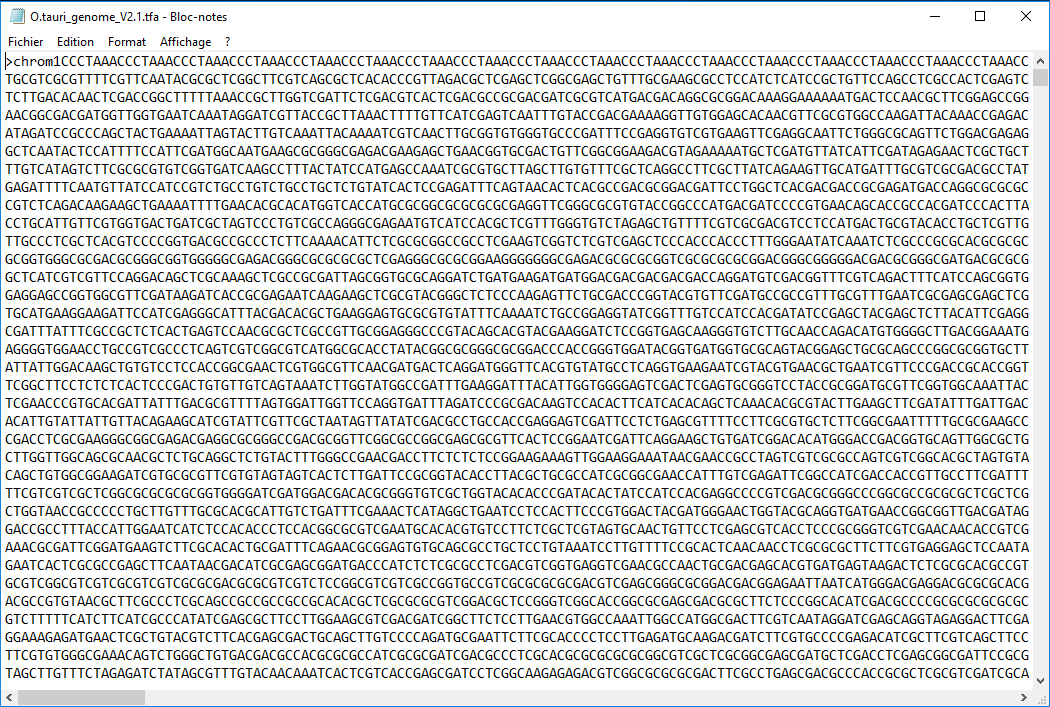
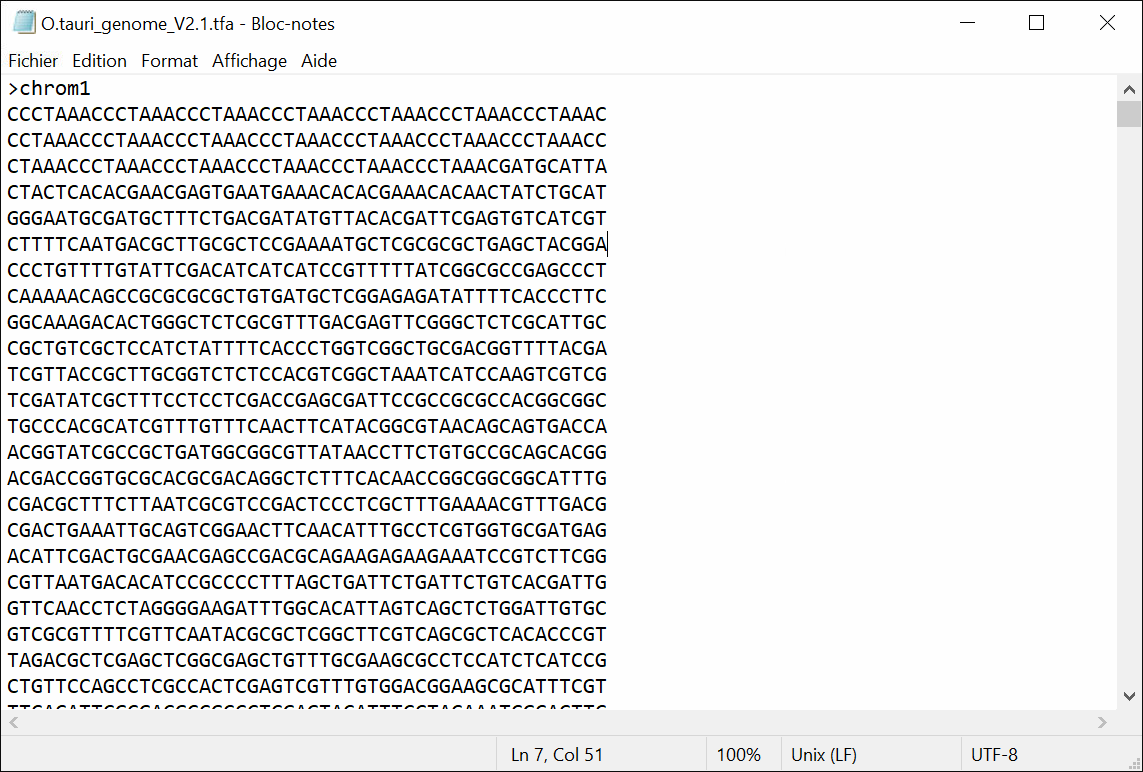
Add genome visualization with bloc-notes

diff --git a/tutoriel/README.md b/tutoriel/README.md
@@ -19,23 +19,6 @@
     - Puis glisser-déposez le fichier sur l'application.
     - Que lisez-vous ?
 
-<details>
-<summary>**Aide**</summary>
-
-
-**aide** le voilà
-
-![](img/tauri_V2.png)
-
-```
-commande 1
-commande 2
-```
-
-
-</details>
-
-
 
 > **Réponses :**
 > > *O. tauri* contient 20 chromosomes. Vous pouvez le vérifiez sur ce [schéma](https://bioinformatics.psb.ugent.be/orcae/overview/OsttaV2)
@@ -53,14 +36,13 @@ commande 2
 
 ### Préparation
 
-1. Installez le logiciel *7-zip* sur votre machine. Vous trouverez une notice détaillée [ici](https://omics-school.github.io/formats-echanges-donnees/install-7zip/).
 1. Installez le logiciel *Notepad++* sur votre machine. Vous trouverez une notice détaillée [ici](https://omics-school.github.io/formats-echanges-donnees/install-notepadpp/).
-
+1. Vérifiez que le logiciel *7-zip* est bien installé). Si ce n'est pas le cas, installez-le sur votre machine. Vous trouverez une notice détaillée [ici](https://omics-school.github.io/formats-echanges-donnees/install-7zip/).
 
 ### Visualisation du génome avec *Bloc-notes*
 
 1. Décompressez le fichier *O.tauri_genome_V2.1.tfa.gz*.  
-    Cliquez droit sur le fichier puis sélectionnez *7-zip -> Extraire Ici*
+    Pour cela cliquez droit sur le fichier puis sélectionnez *7-zip -> Extraire Ici*
 1. Ouvrez le fichier *O.tauri_genome_V2.1.tfa* avec *Bloc-notes*.  
     Remarque : lancez d'abord *Bloc-notes* puis glisser-déposez le fichier sur l'application.
 1. Recherchez les chromosomes de *O. tauri* en pressant les touches <kbd>Ctrl</kbd>+<kbd>F</kbd> puis en entrant le motif `>chrom` puis en cliquant sur le bouton *Suivant* ([aide](img/bloc-notes_recherche.png)).  
@@ -71,12 +53,12 @@ commande 2
 > **Réponses :**
 > > Quand on ouvre le fichier *O.tauri_genome_V2.1.tfa* avec *Bloc-notes* on obtient :
 > > ![](img/bloc-notes.png)
-> > Difficile de voir où sont les différents chromosomes !
-> > La fonction *Rechercher* permet de les retrouver un par un
+> > La fonction *Rechercher* (obtenue en pressant les touches <kbd>Ctrl</kbd>+<kbd>F</kbd>) permet de les retrouver un par un
 > > ![](img/bloc-notes_recherche.png)
 > > En cliquant plusieurs fois sur le bouton *Suivant*, on retrouve les 20 chromosomes.
 > >
-> > Dans un fichier FASTA, les séquences sont réparties sur des lignes avec un nombre fixe de caractères. Cela ne semble pas être le cas ici.
+> > Dans un fichier FASTA, les séquences sont réparties sur des lignes avec un nombre fixe de caractères. Cela ne semble pas être toujours le cas ici, par exemple à partir de la ligne 193044 !
+> > ![](img/bloc-notes_fasta_bug.png)
 {:.answer}
 
 
